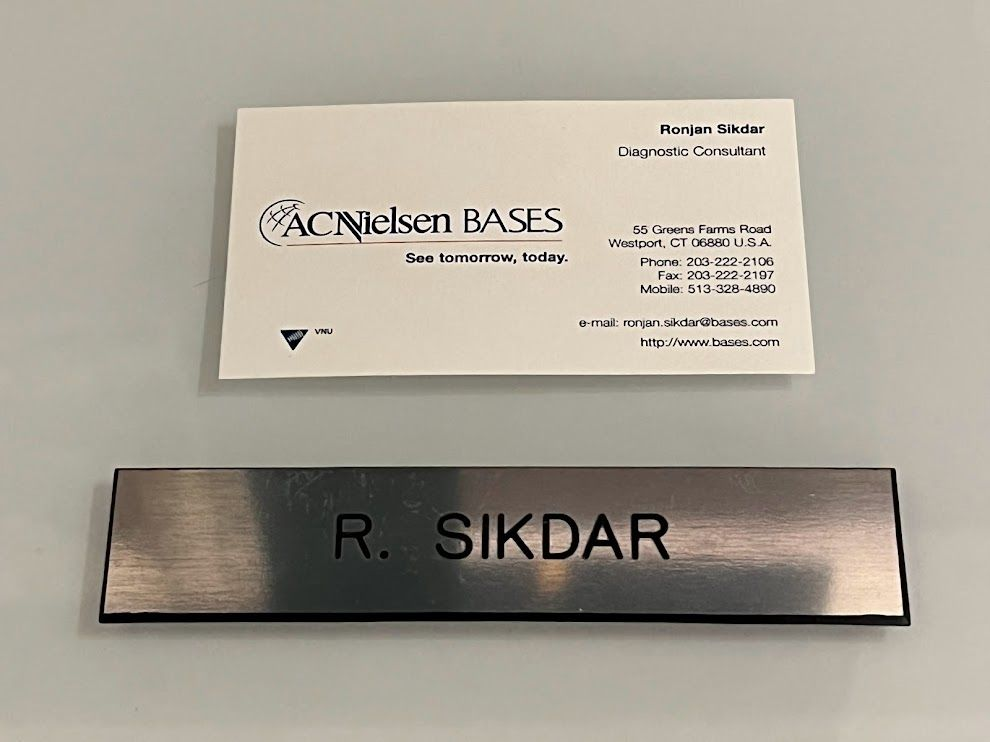
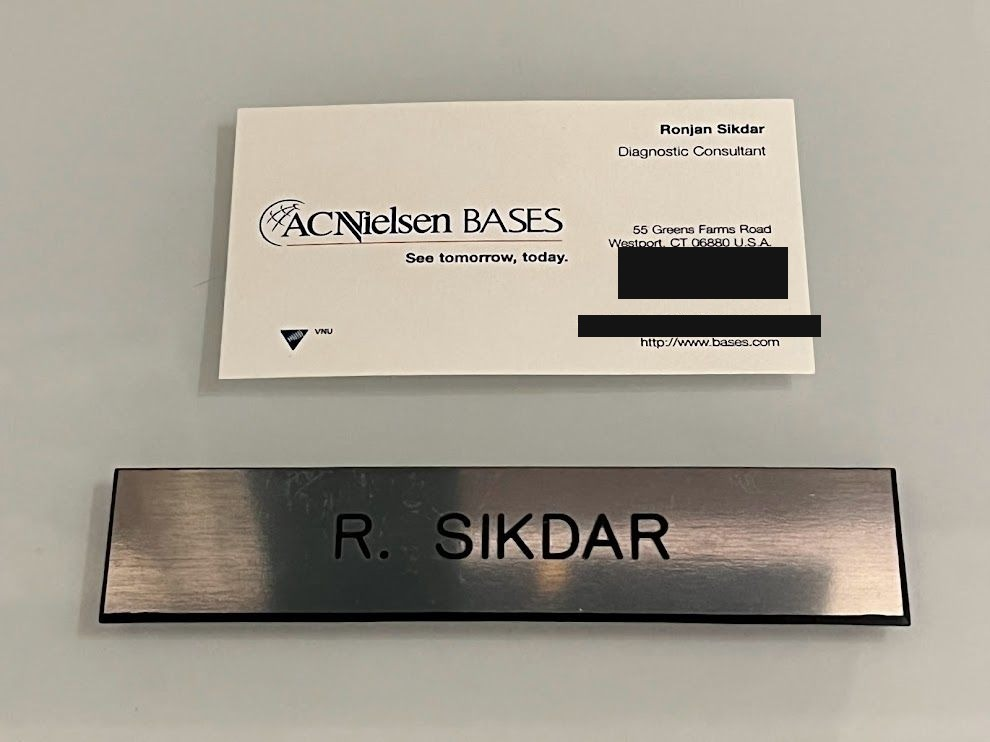
Fix: actually apply title/content/redaction changes from prior commit
The previous commit only captured the file rename (git mv) - the
content edits (new title, dropped blockquote/intro line) and the
redacted image never got staged due to a failed `git add -A` with a
stale pathspec silently erroring out. This commit applies the actual
working-tree changes.

Changed region(s): [[0.5758, 0.31, 0.8485, 0.465]]

diff --git a/src/blog/fr-thank-you-nielsen.md b/src/blog/fr-thank-you-nielsen.md
@@ -1,6 +1,6 @@
 ---
 layout: post.njk
-title: "Neither Story Is Over"
+title: "Thank you, Nielsen"
 date: 2022-03-04
 original_source: Email
 source_note: sent as a farewell email to Nielsen colleagues
@@ -9,8 +9,6 @@ tags: [about-me]
 
 # {{ title }}
 
-<p>Sent to my Nielsen colleagues as a farewell email on my last day, after 18 years:</p>
-<blockquote>
 <p>Howdy friends!</p>
 <p>18 years ago, I joined Nielsen as a 21-year-old, unpolished stats nerd from Ohio wearing a Denver Broncos tie. I actually got into Nielsen on my third try. I kept pressing through the rejections because this was where I wanted to be. And for good reason.</p>
 <p>I quickly found Nielsen to be home. It was the first place I really ever fit in and felt comfortable being myself. And I think that's ultimately because Nielsen is the rare place where you feel entirely special and utterly ordinary all at once. Special because you have the privilege of being surrounded by incredible people day-in, day-out who challenge you, inspire you, and teach you. Ordinary for the exact same reason - how can I measure up? I had to up my game, and you brought out my best.</p>
@@ -21,5 +19,4 @@ tags: [about-me]
 <p>Thank you for believing in me. You believed in me before I believed in myself, you still believe in me more than I believe in myself, and that faith sustains me and brings the best out of me.</p>
 <p>Thank you for letting me be a part of your story, and thank you for being a bigger part of mine. It's been an honor and neither story is over.</p>
 <p>Most importantly, thank you for being you, and bringing your full self in every day. I am truly better - in every possible way - by having known you.</p>
-</blockquote>
-<figure><img alt="" loading="lazy" src="/blog/img/fr/neither-story-is-over/nameplate-and-business-card.jpg"/><figcaption>My rookie card and first nameplate</figcaption></figure>
+<figure><img alt="" loading="lazy" src="/blog/img/fr/thank-you-nielsen/nameplate-and-business-card.jpg"/><figcaption>My rookie card and first nameplate</figcaption></figure>
